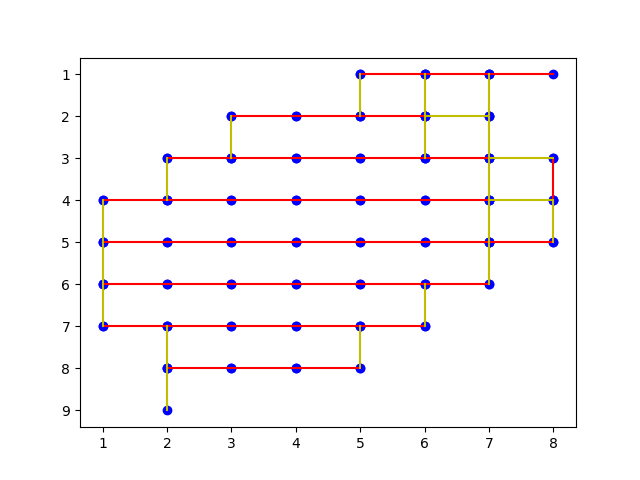
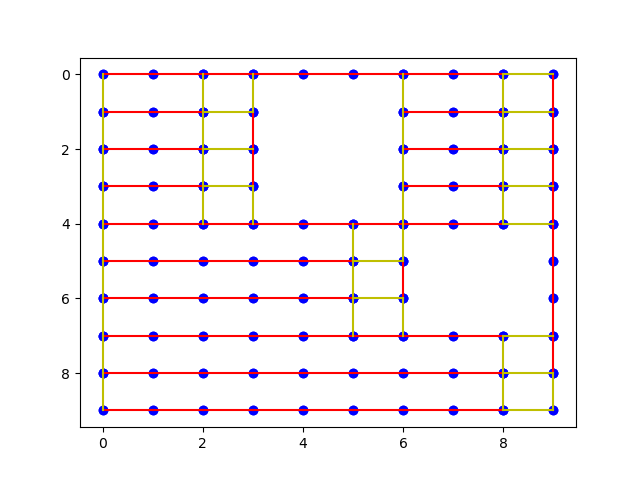
update figures

diff --git a/OCPPP.py b/OCPPP.py
@@ -176,10 +176,10 @@ class Grid:
                     if self.resulting_grid[i][j] == 0:
                         row.append([i, j])
                         if self.resulting_grid[i][j + 1] == 1 or self.resulting_grid[i][j + 1] == -1:
-                        #     horizontal_lines.append(row)
-                        #     # print(row)
-                        #     row = []
-                        # elif self.resulting_grid[i][j + 1] == -1:
+                            #     horizontal_lines.append(row)
+                            #     # print(row)
+                            #     row = []
+                            # elif self.resulting_grid[i][j + 1] == -1:
                             if row:
                                 horizontal_lines.append(row)
                                 # print(row)
@@ -270,7 +270,7 @@ class Grid:
             plt.scatter(i[1], i[0], color='b')
         plt.savefig('GTSP.png')
 
-    def createGTSPSet(self, print_seq = 0):
+    def createGTSPSet(self, print_seq=0):
         gtsp = []
         output = dict()
         counter = 0
@@ -410,12 +410,12 @@ start10 = [0, 0]
 end10 = [9, 9]
 unpassable10 = [[1, 4], [2, 4], [3, 4], [1, 5], [2, 5], [3, 5], [5, 7], [5, 8], [6, 7], [6, 8]]
 # unpassable = [[5, 7], [5, 8], [6, 7], [6, 8]]
-csv_file = "20220725DredgerMap_Gaussain_1_kernal10.csv"
+csv_file = "20220728DredgerMap_Gaussain_2.csv"
 mode = 1
-activate_tsp = 1
-print_seq = 1
-# g = Grid(start = start10, end = end10, unpassable = unpassable10, threshold = 0)
-g = Grid(csv_file=csv_file, threshold=0)
+activate_tsp = 0
+print_seq = 0
+g = Grid(start=start10, end=end10, unpassable=unpassable10, threshold=0)
+# g = Grid(csv_file=csv_file, threshold=0)
 g.findNAI()
 if not mode:
     g.exportNAI()

diff --git a/NewApproach.py b/NewApproach.py
@@ -1,0 +1,19 @@
+import csv
+
+import numpy as np
+from scipy.io import savemat
+import matplotlib.pyplot as plt
+
+from OCPPP import Grid
+
+class SingleDir(Grid):
+    def __init__(self):
+        h_lines = []
+        v_lines = []
+    def createLineSegment(self):
+        for i in range(self.start[0], self.end[0] + 1):
+            line = [[i, 0]]
+            endl = []
+            for j in range(self.start[1], self.end[1] + 1):
+                if [i,j] not in self.unpassable:
+
